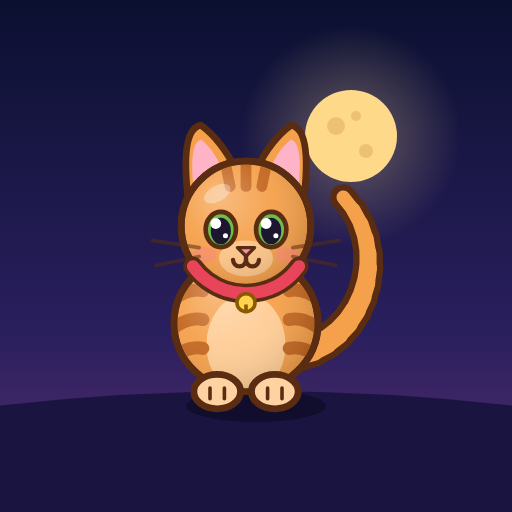
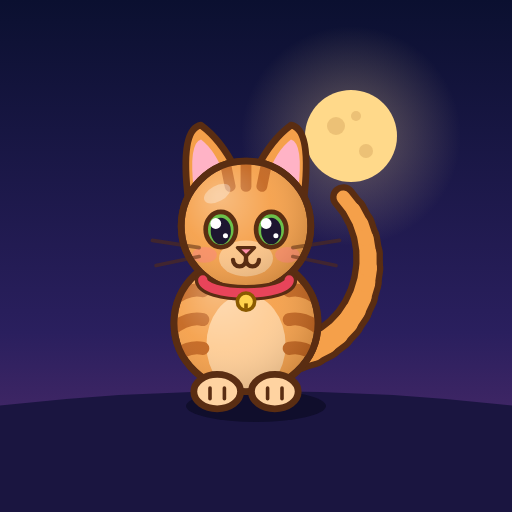
Collier en anneau avec perspective, plus fin, qui passe derrière la tête
Claude-Session: https://claude.ai/code/session_01JdYRHE65jz55i9QTGZhUWS

Changed region(s): [[0.3438, 0.5, 0.625, 0.625]]

diff --git a/index.html b/index.html
@@ -2978,6 +2978,17 @@
     c.closePath();
   }
 
+  // Collar seen slightly from above: a thin ring around the neck. Its far half is
+  // drawn before the head (so the head hides it), its near half after.
+  function drawCollar(c, sk, hy, half) {
+    const from = half === 'far' ? Math.PI : 0, to = half === 'far' ? TAU : Math.PI;
+    c.lineCap = 'round';
+    c.strokeStyle = sk.outline; c.lineWidth = 4.4;
+    c.beginPath(); c.ellipse(0, hy + 15, 12, 3.6, 0, from, to); c.stroke();
+    c.strokeStyle = sk.collar || '#e8445a'; c.lineWidth = 2.6;
+    c.beginPath(); c.ellipse(0, hy + 15, 12, 3.6, 0, from, to); c.stroke();
+  }
+
   // Tapered tail along a cubic curve P, with a light tip
   function drawTail(c, sk, P) {
     const at = u => { const v = 1 - u; return [0, 1].map(k => v * v * v * P[0][k] + 3 * v * v * u * P[1][k] + 3 * v * u * u * P[2][k] + u * u * u * P[3][k]); };
@@ -3055,6 +3066,7 @@
 
     const hy = -50 - bob;
 
+    drawCollar(c, sk, hy, 'far');
     // Head
     const head = () => { c.beginPath(); c.arc(0, hy, 18, 0, TAU); };
     furShape(c, sk, head, sk.head || sk.fur, sk.headPatches && sk.headPatches.map(([x, y, rx, ry, col]) => [x, hy + y, rx, ry, col]));
@@ -3083,13 +3095,8 @@
       }
     }
 
-    // Collar around the neck (its bell is at the front, so not seen from behind)
-    const col = sk.collar || '#e8445a';
-    c.lineCap = 'round';
-    c.strokeStyle = sk.outline; c.lineWidth = 5.4;
-    c.beginPath(); c.arc(0, hy + 0.5, 18.2, 0.2 * Math.PI, 0.8 * Math.PI); c.stroke();
-    c.strokeStyle = col; c.lineWidth = 3.4;
-    c.beginPath(); c.arc(0, hy + 0.5, 18.2, 0.2 * Math.PI, 0.8 * Math.PI); c.stroke();
+    // Near half of the collar (its bell hangs at the front, so not seen from behind)
+    drawCollar(c, sk, hy, 'near');
 
     // Highlights
     c.fillStyle = 'rgba(255, 255, 255, 0.32)';
@@ -3181,6 +3188,7 @@
       c.fillStyle = '#ffb3c6'; c.fill();
     }
 
+    drawCollar(c, sk, hy, 'far');
     // Head
     const head = () => { c.beginPath(); c.arc(0, hy, 18, 0, TAU); };
     furShape(c, sk, head, sk.head || sk.fur, sk.headPatches && sk.headPatches.map(([x, y, rx, ry, col]) => [x, hy + y, rx, ry, col]));
@@ -3237,15 +3245,11 @@
     }
     c.globalAlpha = 1;
 
-    // Collar with the bell in front
-    const col = sk.collar || '#e8445a';
-    c.strokeStyle = sk.outline; c.lineWidth = 5.4;
-    c.beginPath(); c.arc(0, hy + 0.5, 18.2, 0.2 * Math.PI, 0.8 * Math.PI); c.stroke();
-    c.strokeStyle = col; c.lineWidth = 3.4;
-    c.beginPath(); c.arc(0, hy + 0.5, 18.2, 0.2 * Math.PI, 0.8 * Math.PI); c.stroke();
+    // Near half of the collar, with the bell in front
+    drawCollar(c, sk, hy, 'near');
     c.fillStyle = '#ffd34d'; c.strokeStyle = '#8a5a00'; c.lineWidth = 1;
-    c.beginPath(); c.arc(0, hy + 21.3, 2.5, 0, TAU); c.fill(); c.stroke();
-    c.fillStyle = '#8a5a00'; c.fillRect(-0.5, hy + 21.8, 1, 1.6);
+    c.beginPath(); c.arc(0, hy + 21, 2.4, 0, TAU); c.fill(); c.stroke();
+    c.fillStyle = '#8a5a00'; c.fillRect(-0.5, hy + 21.5, 1, 1.5);
 
     c.fillStyle = 'rgba(255, 255, 255, 0.32)';
     c.beginPath(); c.ellipse(-8, hy - 9, 4, 2.2, -0.5, 0, TAU); c.fill();
